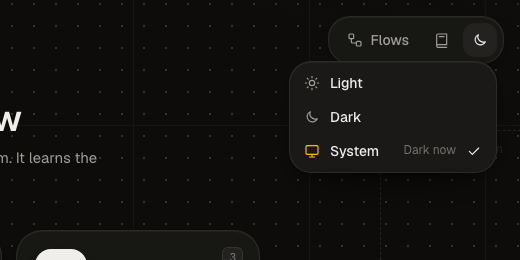
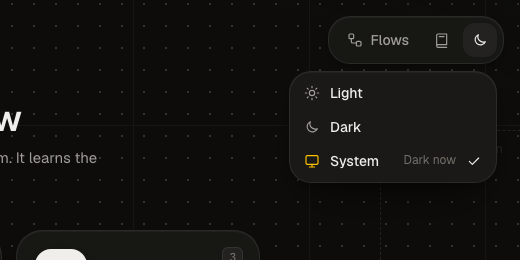
Record the app chrome sign-off

diff --git a/docs/prototypes/744-workspace-design-direction/src/chrome.tsx b/docs/prototypes/744-workspace-design-direction/src/chrome.tsx
@@ -106,7 +106,12 @@ export const ThemeMenu = () => {
       >
         {dark ? <MoonIcon /> : <SunIcon />}
       </MenuTrigger>
-      <MenuContent align="end" className="popover island theme-menu">
+      <MenuContent
+        align="end"
+        // Like the session switcher: clear the island, then a gap of its own.
+        className="popover island theme-menu"
+        sideOffset={14}
+      >
         <MenuRadioGroup
           onValueChange={(value) => choose(value as ThemeChoice)}
           value={choice}

diff --git a/docs/prototypes/744-workspace-design-direction/README.md b/docs/prototypes/744-workspace-design-direction/README.md
@@ -49,7 +49,7 @@ The dark strip is prototype scaffolding, not proposed UI. It turns the running s
 
 ## App chrome (#779)
 
-Awaiting sign-off on #779. The header band no longer shows on any page a person normally reaches. Since #744 to #757, the Workspace home, every session, the Dry Run review and the Flows page carry their own islands and hide it. Only three pages still show it: an unknown route, the Workspace while it loads its sessions, and a session link that no longer resolves. This slice removes the band from those too, so every page has the same two islands.
+Approved on #779, with one change: the theme menu opens 8px below its island, like the session switcher. The header band no longer shows on any page a person normally reaches. Since #744 to #757, the Workspace home, every session, the Dry Run review and the Flows page carry their own islands and hide it. Only three pages still show it: an unknown route, the Workspace while it loads its sessions, and a session link that no longer resolves. This slice removes the band from those too, so every page has the same two islands.
 
 | Surface | Today | Proposed |
 | --- | --- | --- |
@@ -57,7 +57,7 @@ Awaiting sign-off on #779. The header band no longer shows on any page a person 
 | Not-found page | Header band, then "Page not found" centred on a blank page | The home's islands: `navigation "Workspace"` with `link "Contingency home"`, and Flows, Docs and the theme menu. One island card: **404**, "Page not found", "This route does not exist in Contingency.", and **Go to the Workspace**. |
 | Workspace loading | Header band, or a floating Docs and theme pair, over the loader | The same islands, with the loader and "Loading Agent Sessions…" on the canvas. |
 | Session unavailable | Header band over an Alert | The same islands. One island card holds the `alert` "Agent Session unavailable" with the reason, the note about session ids, and **Go to the Workspace**. |
-| Theme menu | Base UI Dropdown Menu: three plain items, none marked | UI SDK Menu: `menuitemradio` **Light**, **Dark** and **System**. The saved choice is checked, and **System** says which theme it resolves to now ("Light now"). Choosing closes the menu. The trigger shows the theme in effect. |
+| Theme menu | Base UI Dropdown Menu: three plain items, none marked | UI SDK Menu: `menuitemradio` **Light**, **Dark** and **System**. The saved choice is checked, and **System** says which theme it resolves to now ("Light now"). Choosing closes the menu. It opens 8px below the island. The trigger shows the theme in effect. |
 
 Walk it with the scaffold's **Page** button (app, not-found, loading, unavailable), or open `/?status=<kind>`. The theme menu is on every page's top-right island. The prototype saves the choice under the prod key, `contingency-theme`, and reapplies it on reload. **System** clears the key and follows the OS again.
 
